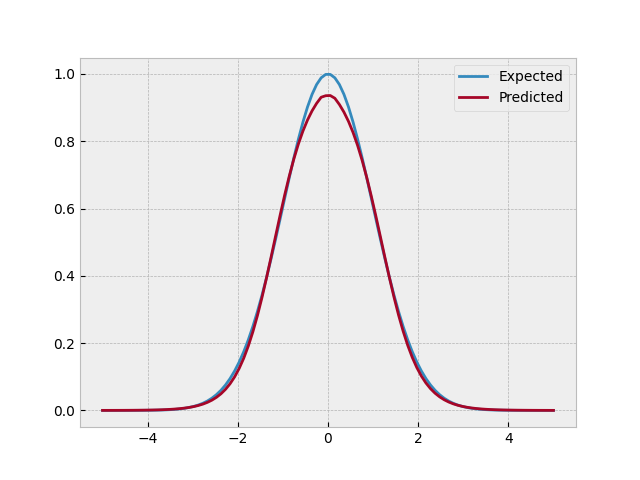
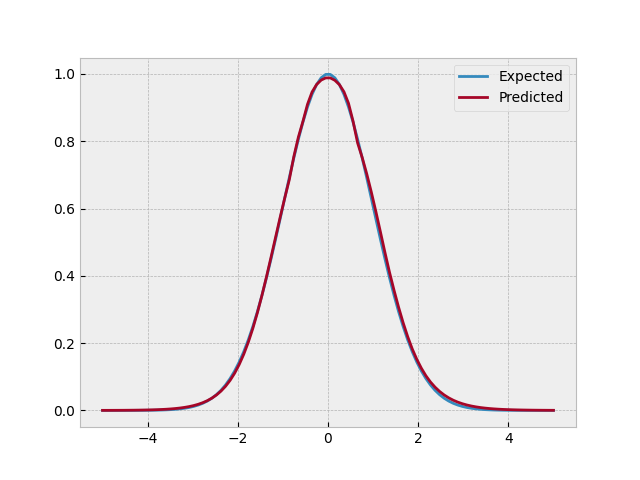
Updated function fitting example.

diff --git a/examples/function_fitting/fit_gaussian.py b/examples/function_fitting/fit_gaussian.py
@@ -10,14 +10,20 @@ from tensornet.cost import MSE
 from tensornet.initialize import Normal
 
 # Adjustable parameters
-hidden_nodes = 25       # Number of hidden nodes
+hidden_nodes = 25      # Number of hidden nodes
 size_data = 500        # Size of training data
-epochs = 200           # Number of epochs
+epochs = 100           # Number of epochs
+learning_rate = 0.005
+mini_batches = 100
+
+
 
 # Set up model
-model = Network(input_shape=(1), cost=MSE(), optimizer=ADAM(eta=0.005)) 
+model = Network(input_shape=(1), cost=MSE(), optimizer=ADAM(lr=learning_rate)) 
 model.dense(units=hidden_nodes, activation=ReLU())
 model.dense(units=1, activation=Sigmoid())
+
+
 
 # Define training data
 import numpy as np
@@ -26,12 +32,15 @@ def f(coordinates):
     """
     return np.exp(-(coordinates**2).sum(axis=1)/2)
     
-    
 x = np.random.normal(size=(size_data, 1))
 t = f(x)
 
+
+
 # Train model
-model.train(x, t, epochs = epochs)
+model.train(x, t, epochs = epochs, mini_batches = mini_batches)
+
+
 
 # Plot result
 import matplotlib.pyplot as plt
